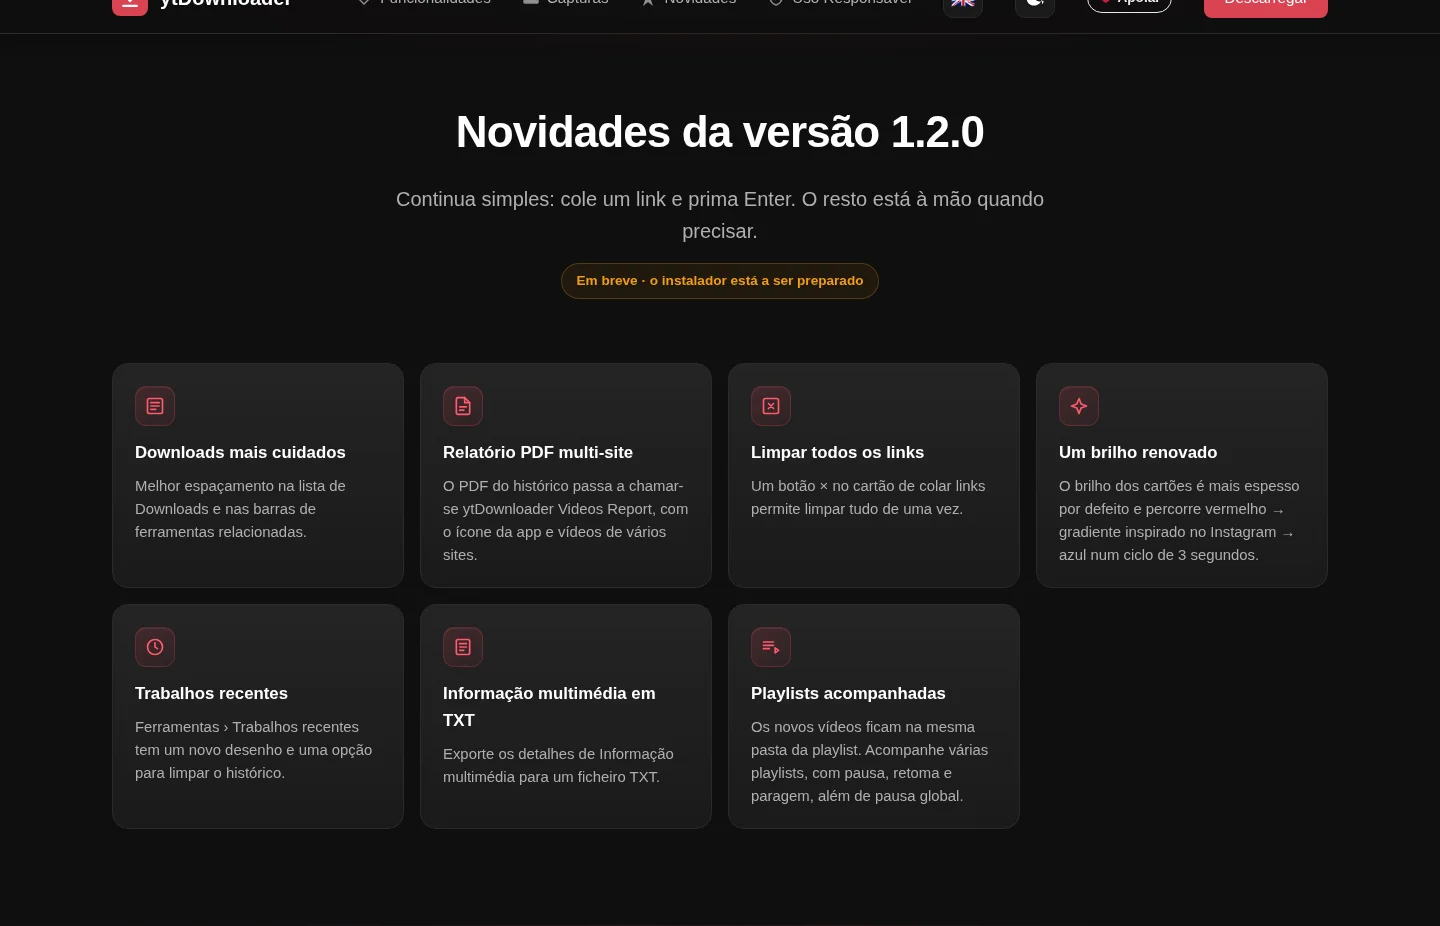
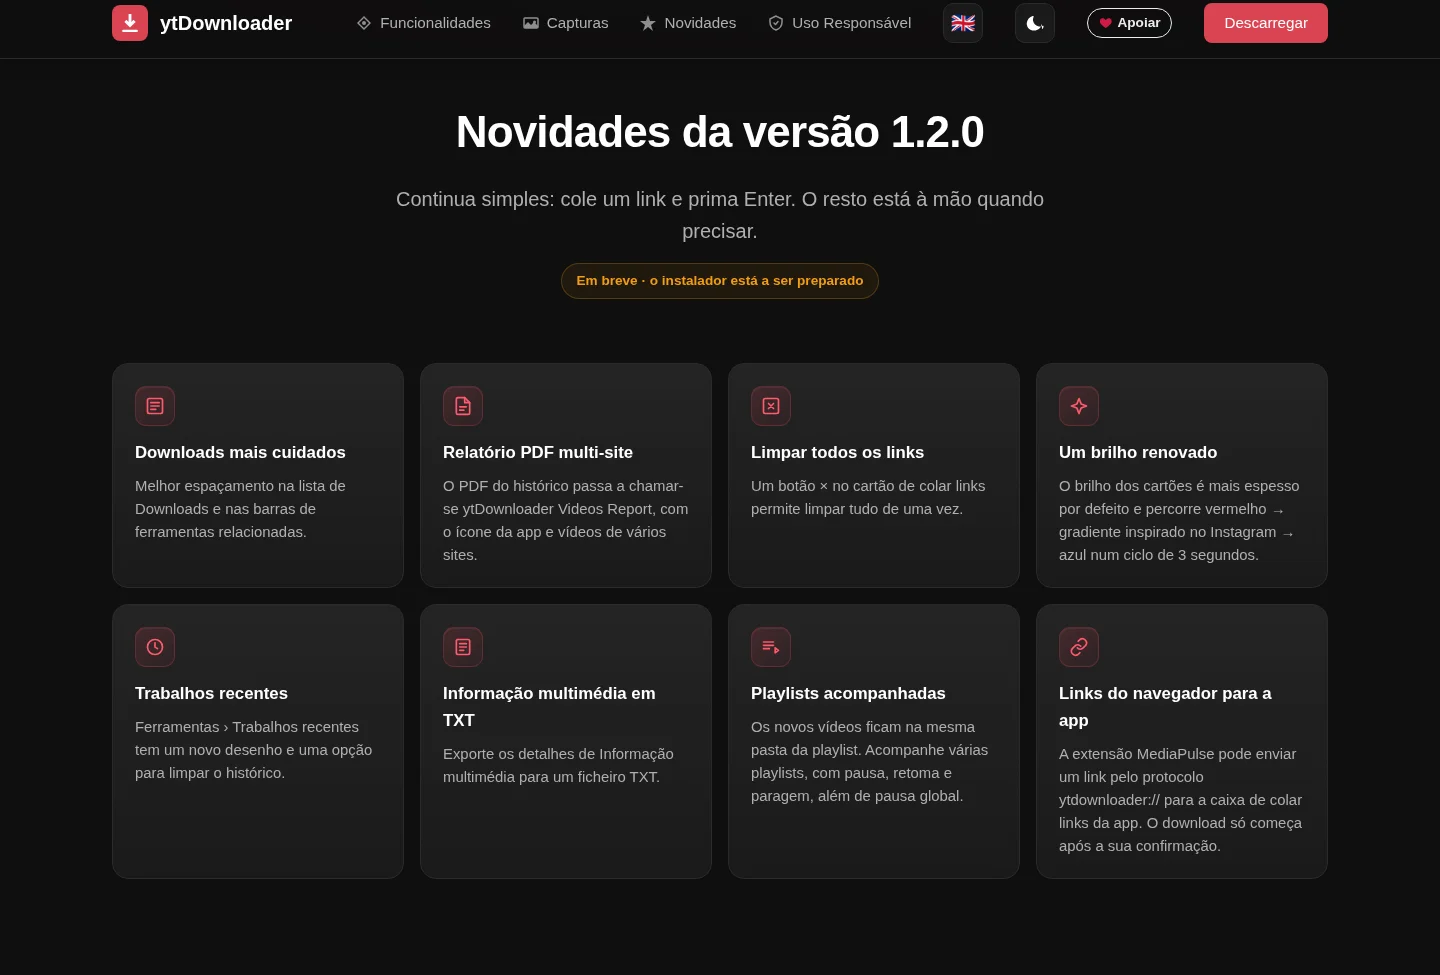
Add confirmed MediaPulse deep link to 1.2.0 notes

diff --git a/index.html b/index.html
@@ -309,6 +309,7 @@
                 <li class="whatsnew-item"><span class="wn-ic" aria-hidden="true"><svg viewBox="0 0 24 24" fill="none" stroke="currentColor" stroke-width="2" stroke-linecap="round" stroke-linejoin="round"><circle cx="12" cy="12" r="9"/><path d="M12 7v5l3 2"/></svg></span><h3 data-i18n="whatsnew.jobs.title">Trabalhos recentes</h3><p data-i18n="whatsnew.jobs.text">Ferramentas › Trabalhos recentes tem um novo desenho e uma opção para limpar o histórico.</p></li>
                 <li class="whatsnew-item"><span class="wn-ic" aria-hidden="true"><svg viewBox="0 0 24 24" fill="none" stroke="currentColor" stroke-width="2" stroke-linecap="round" stroke-linejoin="round"><rect x="4" y="3" width="16" height="18" rx="2"/><path d="M8 8h8M8 12h8M8 16h5"/></svg></span><h3 data-i18n="whatsnew.info.title">Informação multimédia em TXT</h3><p data-i18n="whatsnew.info.text">Exporte os detalhes de Informação multimédia para um ficheiro TXT.</p></li>
                 <li class="whatsnew-item"><span class="wn-ic" aria-hidden="true"><svg viewBox="0 0 24 24" fill="none" stroke="currentColor" stroke-width="2" stroke-linecap="round" stroke-linejoin="round"><path d="M3 6h12M3 10h12M3 14h7m7-1 4 3-4 3z"/></svg></span><h3 data-i18n="whatsnew.playlists.title">Playlists acompanhadas</h3><p data-i18n="whatsnew.playlists.text">Os novos vídeos ficam na mesma pasta da playlist. Acompanhe várias playlists, com pausa, retoma e paragem, além de pausa global.</p></li>
+                <li class="whatsnew-item"><span class="wn-ic" aria-hidden="true"><svg viewBox="0 0 24 24" fill="none" stroke="currentColor" stroke-width="2" stroke-linecap="round" stroke-linejoin="round"><path d="M10 13a5 5 0 0 0 7 .1l3-3a5 5 0 0 0-7-7l-2 2M14 11a5 5 0 0 0-7-.1l-3 3a5 5 0 0 0 7 7l2-2"/></svg></span><h3 data-i18n="whatsnew.deeplink.title">Links do navegador para a app</h3><p data-i18n="whatsnew.deeplink.text">A extensão MediaPulse pode enviar um link pelo protocolo ytdownloader:// para a caixa de colar links da app. O download só começa após a sua confirmação.</p></li>
             </ul>
         </div>
     </section>
@@ -554,7 +555,7 @@
         </div>
     </footer>
 
-    <script src="/js/i18n.js?v=1.2.0r1"></script>
+    <script src="/js/i18n.js?v=1.2.0r2"></script>
     <script src="/js/apoiar.js?v=2.6.r2" data-theme="default-dark" defer></script>
     <script src="/js/script.js?v=1.1.0r2"></script>
     <script src="/js/version.js?v=1.2.0r1" defer></script>

diff --git a/js/i18n.js b/js/i18n.js
@@ -221,6 +221,8 @@ const translations = {
         'whatsnew.info.text': "Exporte os detalhes de Informação multimédia para um ficheiro TXT.",
         'whatsnew.playlists.title': "Playlists acompanhadas",
         'whatsnew.playlists.text': "Os novos vídeos ficam na mesma pasta da playlist. Acompanhe várias playlists, com pausa, retoma e paragem, além de pausa global.",
+        'whatsnew.deeplink.title': "Links do navegador para a app",
+        'whatsnew.deeplink.text': "A extensão MediaPulse pode enviar um link pelo protocolo ytdownloader:// para a caixa de colar links da app. O download só começa após a sua confirmação.",
     },
     
     en: {
@@ -440,6 +442,8 @@ const translations = {
         'whatsnew.info.text': "Export Media Info details to a TXT file.",
         'whatsnew.playlists.title': "Watched playlists",
         'whatsnew.playlists.text': "New videos stay in the same playlist folder. Watch multiple playlists with pause, resume and stop, plus global pause.",
+        'whatsnew.deeplink.title': "Send browser links to the app",
+        'whatsnew.deeplink.text': "The MediaPulse extension can send a link via ytdownloader:// to the app’s paste box. Nothing downloads until you confirm.",
     }
 };
 

diff --git a/README.md b/README.md
@@ -93,8 +93,9 @@ Without JavaScript, or if `version.json` can't be read, the HTML still links to 
 
 The site advertises the confirmed 1.2.0 improvements in PT and EN: Downloads spacing,
 multi-site history PDF, clear-all links, card glow, Recent Jobs, Media Info TXT export,
-and watched playlists. The conditional PR #5 deep link is omitted until its inclusion
-in the app release is confirmed.
+watched playlists, and the PR #5 `ytdownloader://` deep link. The MediaPulse
+extension can send a link to the app’s paste box; nothing downloads until the
+user confirms.
 
 `version.json` declares `/download/ytDownloader_1.2.0_x64-setup.exe` as the newest
 release with `available: false` and an empty size placeholder. The site shows
